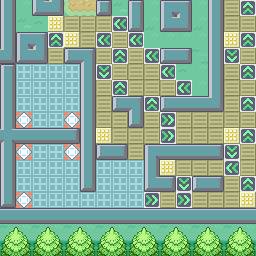
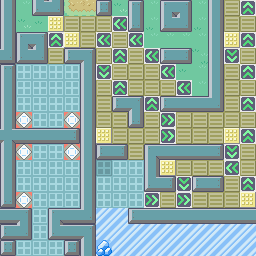
I LIKE TRAINS!
- Added a Maglev train (ripped from Gen 2 and modified), because see
title. It runs once an hour.
- Modified the Anarchy Quagmire with the added puzzle elements
- Added preloading to warp portals, so they will preload (by default) a
3x3 or 4x4 square around where you're landing.

Changed region(s): [[0.0, 0.7188, 1.0, 1.0], [0.375, 0.625, 0.4375, 0.6875]]

diff --git a/pkmn-js/other.js b/pkmn-js/other.js
@@ -2,6 +2,8 @@
 // File for various other events relating to TPP
 // 
 
+//////////////////// Starter Campfire ///////////////////////
+
 addEvent(new Building({
 	name : "Released Starter Campfire Base",
 	sprite : "img/bld/campfire.gif",
@@ -80,6 +82,84 @@ addEvent(new MultiEvent({
 	],
 })));
 
+///////////////// Train Station ////////////////////
+// I like trains!
+
+addEvent(new Building({
+	name: "Train Station",
+	sprite: "img/bld/train_station.png",
+	x: -19, y: 60,
+	
+	warp_x: 128, warp_y: 144,
+}));
+
+addEvent(new Event({
+	name: "Train",
+	sprite: "img/bld/train.png",
+	x: -15, y: 58, z: -8,
+	
+	is_stopped : false, //if the train is stopped permenantly at the station
+	
+	activeZone : function(load) {
+		if (this.is_stopped) return false;
+		var res = !(load.bottom < 56 || load.top > 61);
+		if (!res && this.nowRunning) {
+			this.nowRunning = false;
+			this.domElement.hide();
+		}
+		return res;
+	},
+	
+	lastRun : -1,
+	nowRunning : false,
+	actTimer : 0,
+	behavior: function(){
+		if (--this.actTimer > 0) return;
+		if (this.is_stopped) return;
+		if (!this.nowRunning) {
+			this.domElement.hide();
+			
+			var date = new Date();
+			var hour = date.getHours();
+			var min = date.getMinutes();
+			//run on the hour (up to 5 minutes after) and only once per hour
+			if (min > 5 || hour == this.lastRun) {
+				this.actTimer = 120;
+				return;
+			}
+			
+			//We want to run, place train just off the left side of the screen
+			var offset = $("#anchor").position();
+			this.domElement.css("left", -offset.left - 256).show();
+			
+			this.lastRun = hour;
+			this.nowRunning = true;
+			this.actTimer = -1;
+			console.log("Train now running!");
+		}
+		
+		if (this.nowRunning) {
+			var xloc = this.domElement.position().left;
+			this.domElement.stop().animate({
+				"left" : xloc + 128,
+			}, {
+				duration: 500,
+				easing: 'linear',
+			});
+			
+			var offset = $("#anchor").position();
+			var scrw = $("body").width() + 512;
+			if (xloc > -offset.left + scrw) {
+				this.domElement.hide();
+				this.nowRunning = false;
+				this.actTimer = 60;
+			}
+		}
+	},
+}));
+
+/////////////////// Shiny House ///////////////////
+
 addEvent(new Building({
 	name : "Shiny House",
 	sprite : "img/bld/shiny2.png",
@@ -88,12 +168,15 @@ addEvent(new Building({
 	warp_x: 32, warp_y: 54,
 }));
 
+//////////////////// Misc Signs! //////////////////
+
 addEvent(new SignPost({
 	name : "Park Sign",
 	x: 5, y: 9,
 }));
 
-// Creepy eyes! >:3
+
+//////////////// Creepy Eyes! >:3 ////////////////////
 addEvent(new Event({
 	name : "Cave Eyes",
 	sprite : "img/pkmn/cave_eyes.png",

diff --git a/lib/tpppark.js b/lib/tpppark.js
@@ -96,10 +96,12 @@ function loadBG(x, y){
 //NOTE! If the map ever expands, CHANGE THIS!!
 loadBG.mapLimits = function(x, y){
 	if (y >=  0 && y <=  6 && x >=  0 && x <=  7) return true; //Main Park
+	if (y >=  7 && y <=  7 && x >=  2 && x <=  3) return true; //Park's Train Station
 	if (y >=  1 && y <=  4 && x >=  4 && x <= 10) return true; //Stadium Clearing
 	if (y >= -1 && y <=  0 && x >= -6 && x <= -5) return true; //Mt Pantheon
-	if (y >=-13 && y <=-11 && x >= 12 && x <= 15) return true; //Anarchy Quagmire
+	if (y >=-13 && y <=-10 && x >= 12 && x <= 17) return true; //Anarchy Quagmire
 	
+	if (y == 7) return "missing_tracks";
 	if (y == 10) return "missing_waters_edge_"+(((x%4)+4)%4);
 	if (y > 10) return "missing_water";
 	return false; //normal forests
@@ -148,6 +150,12 @@ function checkLoadOverViewArea() {
 		}
 	}
 	checkActiveZones();
+}
+
+function preloadArea(area){
+	for (var x = area.left; x <= area.right; x++)
+		for (var y = area.left; y <= area.right; y++)
+			loadBG(x, y);
 }
 
 $(function(){ //Jquery On Ready
@@ -249,12 +257,16 @@ function checkActiveZones() {
 	for (var i = 0; i < activeZones.length; i++) {
 		var obj = activeZones[i];
 		if (!obj.activeZone) continue;
-		obj._isActive = !(
-			obj.activeZone.top > load.bottom ||
-			obj.activeZone.bottom < load.top ||
-			obj.activeZone.left > load.right ||
-			obj.activeZone.right < load.left
-		);
+		if ($.isFunction(obj.activeZone)) {
+			obj._isActive = obj.activeZone(load);
+		} else {
+			obj._isActive = !(
+				obj.activeZone.top > load.bottom ||
+				obj.activeZone.bottom < load.top ||
+				obj.activeZone.left > load.right ||
+				obj.activeZone.right < load.left
+			);
+		}
 		
 		// if (obj.name == "Pokemon Stadium 2 (Entrance)") {
 		// 	console.log("Active Check: ", obj._isActive, load, obj.activeZone);

diff --git a/lib/pokedata.js b/lib/pokedata.js
@@ -796,6 +796,7 @@ var behavior = {}; //behavior function holder
 		
 		warp_to_x: 8,
 		warp_to_y: 8,
+		preload : 1,
 		
 		_createImageTag : function() {
 			var eventobj = this;
@@ -814,6 +815,14 @@ var behavior = {}; //behavior function holder
 		},
 		
 		doClick: function(){
+			if (this.preload) {
+				preloadArea({
+					top: Math.floor((this.warp_to_y - this.preload)/16),
+					bottom: Math.ceil((this.warp_to_y + this.preload)/16),
+					left: Math.floor((this.warp_to_x - this.preload)/16),
+					right: Math.ceil((this.warp_to_x + this.preload)/16),
+				})
+			}
 			centerOnTile(this.warp_to_x, this.warp_to_y, true);
 		}
 	});
